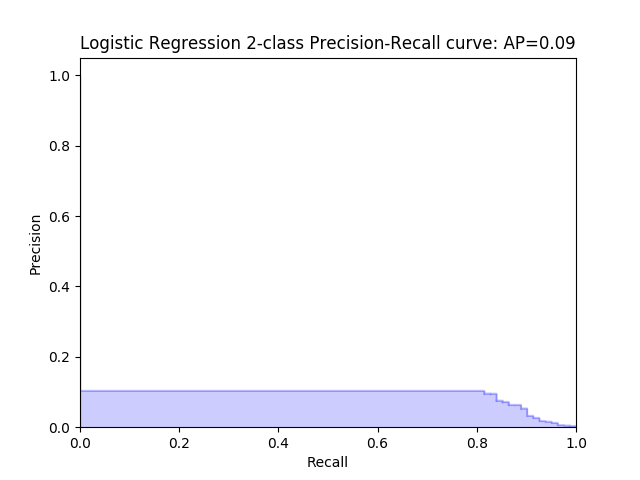
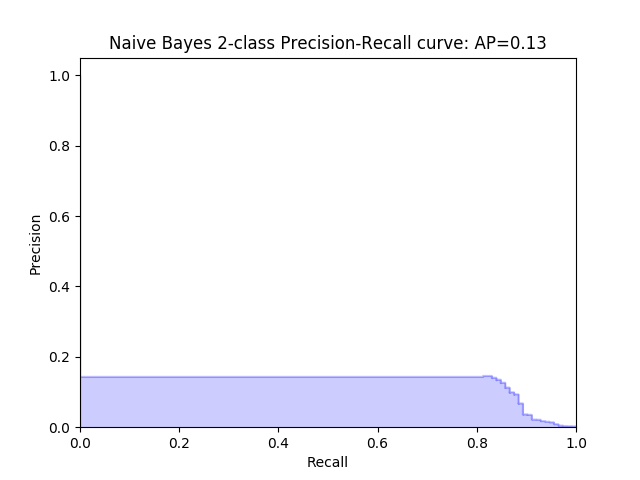
Fix plots with naive bayes

Changed region(s): [[0.125, 0.0625, 0.9062, 0.125], [0.125, 0.7812, 0.8125, 0.8438], [0.8125, 0.8438, 0.8438, 0.875]]

diff --git a/src/supervised/naive_bayes.py b/src/supervised/naive_bayes.py
@@ -49,7 +49,7 @@ def naive_bayes(x_train,x_test,y_train,y_test):
     plt.ylabel('Precision')
     plt.ylim([0.0, 1.05])
     plt.xlim([0.0, 1.0])
-    plt.title('Logistic Regression 2-class Precision-Recall curve: AP={0:0.2f}'.format(
+    plt.title('Naive Bayes 2-class Precision-Recall curve: AP={0:0.2f}'.format(
         average_precision))
 
     # Plot ROC
@@ -62,7 +62,7 @@ def naive_bayes(x_train,x_test,y_train,y_test):
     plt.ylim([0.0, 1.05])
     plt.xlabel('False Positive Rate')
     plt.ylabel('True Positive Rate')
-    plt.title('Logistic Regression ROC')
+    plt.title('Naive Bayes ROC')
     plt.legend(loc="lower right")
     plt.show()
 
